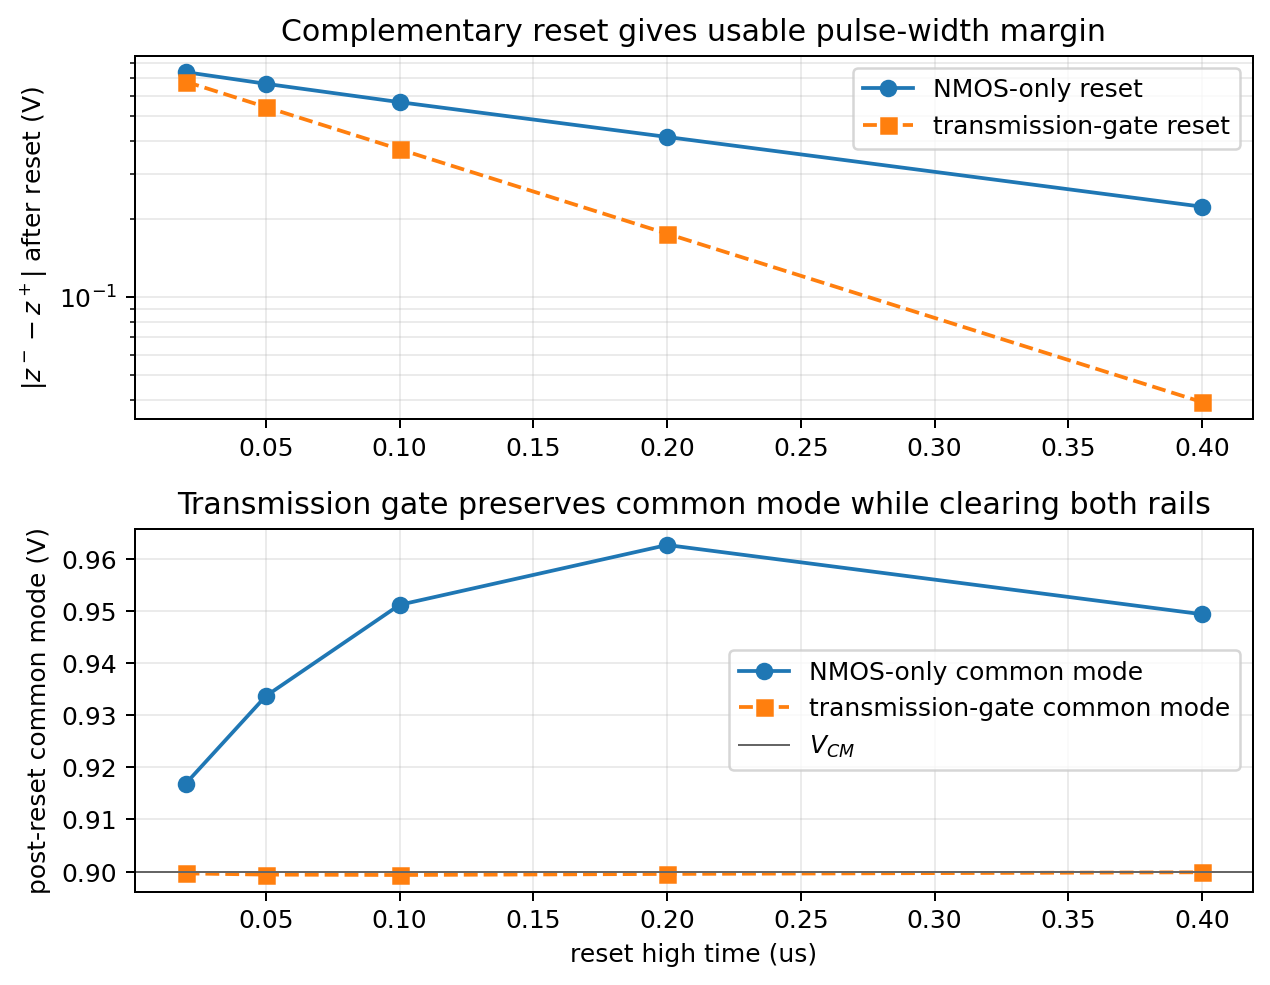
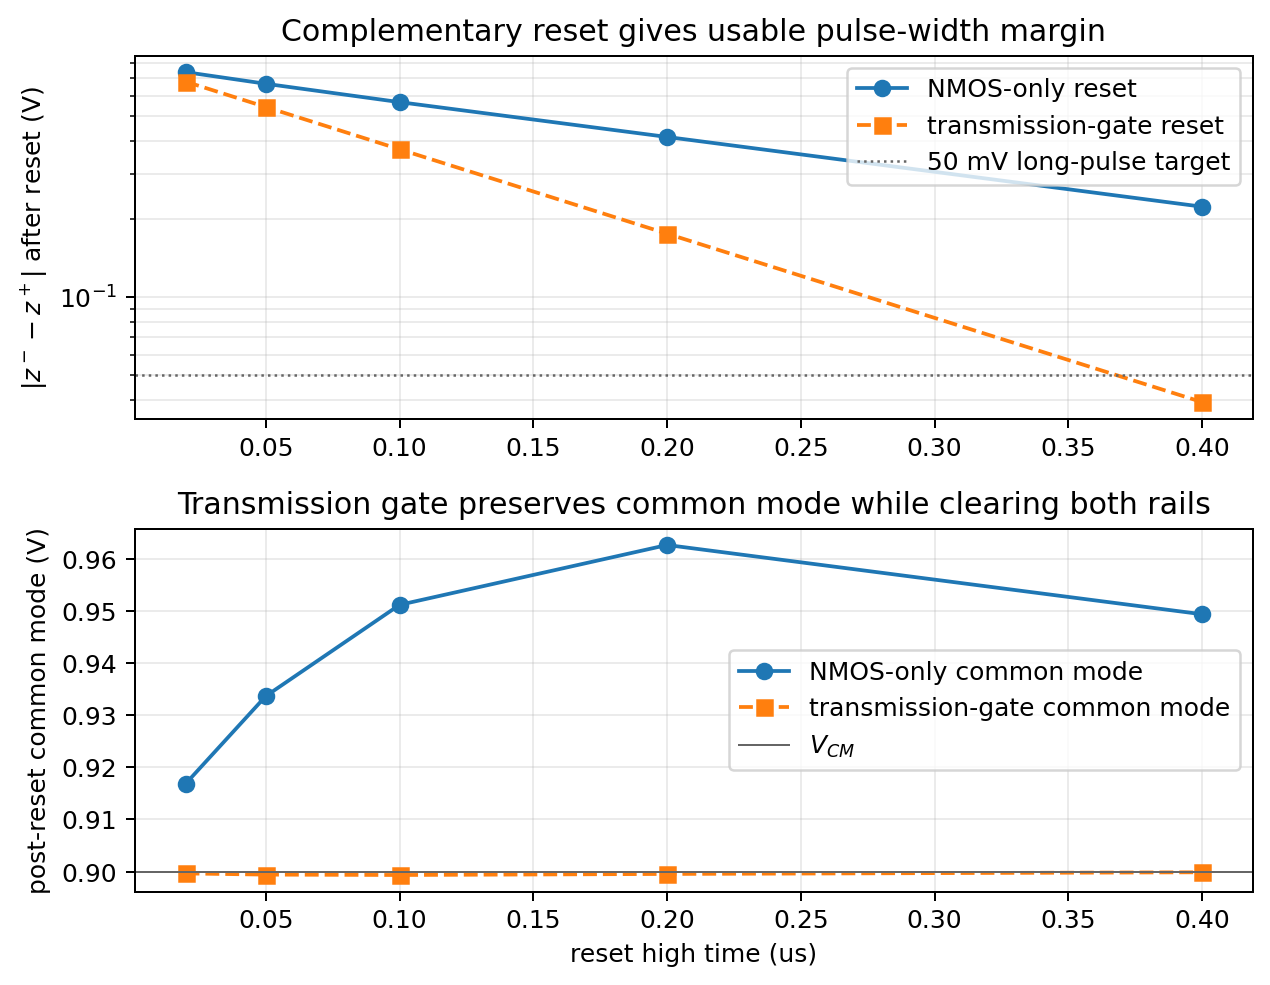
Clarify reset width and timing plots

Changed region(s): [[0.6449, 0.0609, 0.9827, 0.2132]]

diff --git a/spice/run_mos_cell_characterization.py b/spice/run_mos_cell_characterization.py
@@ -16043,6 +16043,7 @@ quit
     sweep_fig, sweep_axes = plt.subplots(2, 1, figsize=(7.2, 5.6))
     sweep_axes[0].semilogy(widths_us, nmos_residual, "o-", label="NMOS-only reset")
     sweep_axes[0].semilogy(widths_us, tg_residual, "s--", label="transmission-gate reset")
+    sweep_axes[0].axhline(0.05, color="0.4", linestyle=":", linewidth=1.0, label="50 mV long-pulse target")
     sweep_axes[0].set_ylabel("$|z^- - z^+|$ after reset (V)")
     sweep_axes[0].set_title("Complementary reset gives usable pulse-width margin")
     sweep_axes[0].grid(True, which="both", alpha=0.25)
@@ -16070,8 +16071,11 @@ quit
     labels = [label for _name, label, _start_us, _end_us in write_timing_cases]
     write_timing_axes[1].bar(labels, write_final)
     write_timing_axes[1].axhline(0, color="0.4", linewidth=0.8)
+    write_timing_axes[1].set_ylim(0.0, 1.20 * float(np.max(write_final)))
+    for x, final_value in enumerate(write_final):
+        write_timing_axes[1].text(x, final_value + 0.002, f"{1e3 * final_value:.0f}", ha="center", va="bottom", fontsize="x-small")
     write_timing_axes[1].set_ylabel("final $z^- - z^+$ (V)")
-    write_timing_axes[1].set_title("Clean post-reset writes agree; reset-edge writes are partial")
+    write_timing_axes[1].set_title("Clean post-reset writes agree; reset-edge writes are partial (mV labels)")
     write_timing_axes[1].grid(True, axis="y", alpha=0.25)
     write_timing_fig.tight_layout()
     save_plot(write_timing_fig, "mos_reset_write_timing_ngspice")

diff --git a/engineering_log.md b/engineering_log.md
@@ -9,7 +9,10 @@
   visually ambiguous: \(29/39/53/34/45\) mV post-reset residues looked large
   without the asserted \(80\) mV Level-1 reset budget.  The regenerated
   `mos_reset_mismatch_ngspice` figure now draws that margin and labels the bar
-  values directly, while keeping the circuit unchanged.
+  values directly, while keeping the circuit unchanged.  Family-completed the
+  same reset-plot issue by adding the \(50\) mV long-pulse target to
+  `mos_reset_width_ngspice` and mV bar labels to
+  `mos_reset_write_timing_ngspice`.
 - Family-completed the quadrant-plot readability fix for the integrated hybrid
   local-feature evidence.  The one-level hidden-writer quadrant plot already
   had an explicit final-value panel, but the deeper integrated
